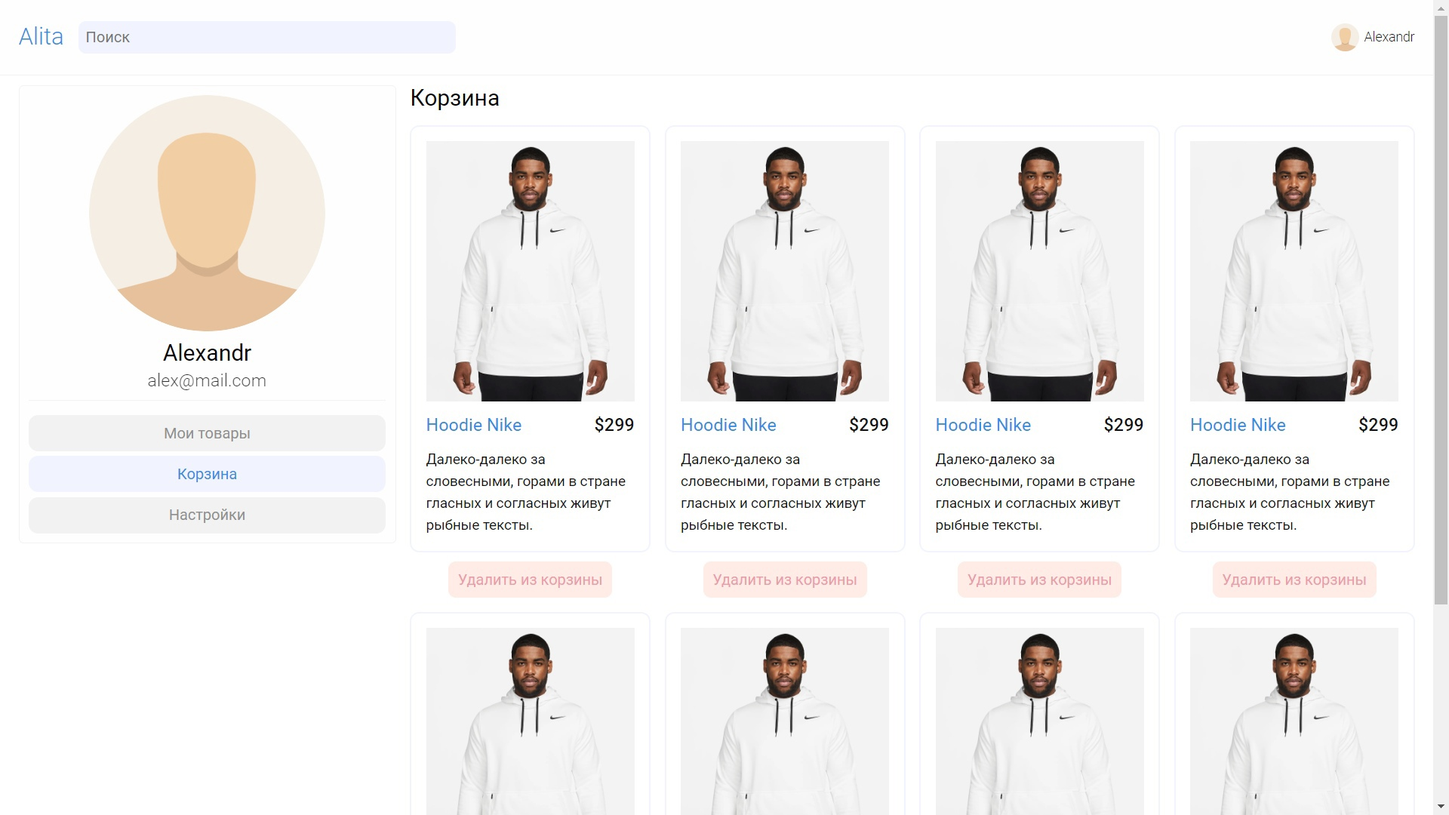
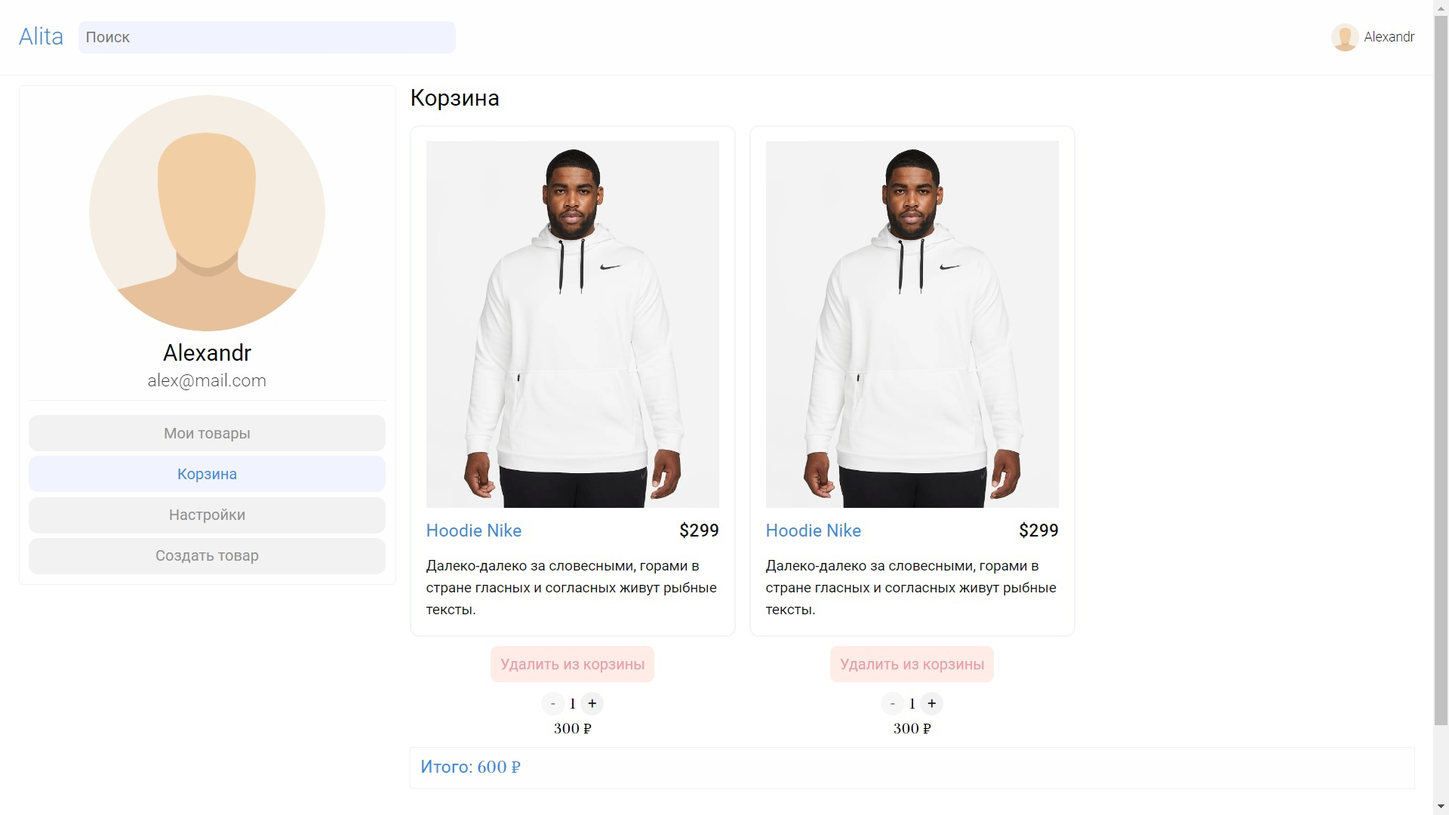
изменил страницу профиля

diff --git a/static/css/main.css b/static/css/main.css
@@ -1,1 +1,1 @@
-@import url(https://fonts.googleapis.com/css2?family=Roboto:wght@300;400;500&display=swap);html{line-height:1.15;-webkit-text-size-adjust:100%}body{margin:0}main{display:block}h1{font-size:2em;margin:.67em 0}hr{box-sizing:content-box;height:0;overflow:visible}pre{font-family:monospace,monospace;font-size:1em}a{background-color:transparent}abbr[title]{border-bottom:none;text-decoration:underline;text-decoration:underline dotted}b,strong{font-weight:bolder}code,kbd,samp{font-family:monospace,monospace;font-size:1em}small{font-size:80%}sub,sup{font-size:75%;line-height:0;position:relative;vertical-align:baseline}sub{bottom:-.25em}sup{top:-.5em}img{border-style:none}button,input,optgroup,select,textarea{font-family:inherit;font-size:100%;line-height:1.15;margin:0}button,input{overflow:visible}button,select{text-transform:none}[type=button],[type=reset],[type=submit],button{-webkit-appearance:button}[type=button]::-moz-focus-inner,[type=reset]::-moz-focus-inner,[type=submit]::-moz-focus-inner,button::-moz-focus-inner{border-style:none;padding:0}[type=button]:-moz-focusring,[type=reset]:-moz-focusring,[type=submit]:-moz-focusring,button:-moz-focusring{outline:1px dotted ButtonText}fieldset{padding:.35em .75em .625em}legend{box-sizing:border-box;color:inherit;display:table;max-width:100%;padding:0;white-space:normal}progress{vertical-align:baseline}textarea{overflow:auto}[type=checkbox],[type=radio]{box-sizing:border-box;padding:0}[type=number]::-webkit-inner-spin-button,[type=number]::-webkit-outer-spin-button{height:auto}[type=search]{-webkit-appearance:textfield;outline-offset:-2px}[type=search]::-webkit-search-decoration{-webkit-appearance:none}::-webkit-file-upload-button{-webkit-appearance:button;font:inherit}details{display:block}summary{display:list-item}template{display:none}[hidden]{display:none}.auth__help-desc,.header__user-name,.logo__link,.profile__sidebar-user-email{font-weight:300;font-family:Roboto,sans-serif}.auth__title,.categories-list__title,.product__title,.profile__sidebar-user-name,.profile__tab-title,.section__title,body{font-weight:400;font-family:Roboto,sans-serif}.product__price{font-weight:500;font-family:Roboto,sans-serif}*,::after,::before{padding:0;margin:0;-webkit-box-sizing:border-box;box-sizing:border-box;list-style-type:none;resize:none;outline:0;text-decoration:none}h1,h2,h3,h4,h5,h6{margin:0}img{max-width:100%;height:auto}button[disabled],input[type=button][disabled],input[type=submit][disabled]{opacity:.8;cursor:not-allowed}#__layout,#__layout>div,#__nuxt{min-height:100vh;height:100%}.container{max-width:1500px;padding:0 10px;height:100%;margin:0 auto;min-height:inherit}.page{min-height:inherit}.page__inner{min-height:inherit}.auth{min-height:inherit;display:-webkit-box;display:-ms-flexbox;display:flex;-webkit-box-orient:vertical;-webkit-box-direction:normal;-ms-flex-direction:column;flex-direction:column;-webkit-box-pack:center;-ms-flex-pack:center;justify-content:center;-webkit-box-align:center;-ms-flex-align:center;align-items:center;padding:15px 0}.auth__form{width:700px}.auth__title{margin-bottom:15px;text-align:center}.auth__help{margin-top:25px;display:-webkit-box;display:-ms-flexbox;display:flex;-webkit-box-pack:center;-ms-flex-pack:center;justify-content:center;-webkit-box-align:center;-ms-flex-align:center;align-items:center}.auth__help-desc{font-size:15px}.auth__help-link{color:#318ce7}.form{display:-webkit-box;display:-ms-flexbox;display:flex;-webkit-box-orient:vertical;-webkit-box-direction:normal;-ms-flex-direction:column;flex-direction:column}.form__field{width:100%}.form__field:not(:last-child){margin-bottom:10px}.form__file{display:none}.form__label{width:100%;display:block}.form__input{width:100%;border:none;background:#f2f2f2;padding:12px;border-radius:5px;border:1px solid transparent;-webkit-transition:color,background,border,.3s;-o-transition:color,background,border,.3s;transition:color,background,border,.3s}.form__input--invalid{background:#ffece7;color:#ec9ba9;border:1px solid #ec9ba9}.form__textarea{resize:vertical;min-height:80px}.form__select{width:100%;height:45px;padding:10px;border:1px solid #f2f2f2;cursor:pointer;border-radius:5px;-webkit-transition:border-color .3s;-o-transition:border-color .3s;transition:border-color .3s}.form__select:focus{border-color:#318ce7}.form__submit-block{display:-webkit-box;display:-ms-flexbox;display:flex;-webkit-box-pack:center;-ms-flex-pack:center;justify-content:center;-webkit-box-align:center;-ms-flex-align:center;align-items:center}.form__submit{cursor:pointer;padding:8px;border-radius:5px;background:#101010;color:#fefefe}.pt-90{padding-top:90px}.header{position:fixed;width:100%;height:80px;z-index:999;padding:10px 0;background:#fefefe;border-bottom:1px solid #f2f2f2}.header__inner{height:100%;display:-webkit-box;display:-ms-flexbox;display:flex;-webkit-box-align:center;-ms-flex-align:center;align-items:center;-webkit-box-pack:justify;-ms-flex-pack:justify;justify-content:space-between}.header__search{width:400px}.header__search-input{border:none;border-radius:8px;background:#f1f4ff;padding:8px;width:100%}.header__block{display:-webkit-box;display:-ms-flexbox;display:flex;-webkit-box-align:center;-ms-flex-align:center;align-items:center}.header__block:not(:last-child){margin-right:10px}.header__logo{margin-right:15px}.header__user-info{color:#101010;display:-webkit-box;display:-ms-flexbox;display:flex;-webkit-box-align:center;-ms-flex-align:center;align-items:center}.header__user-icon{width:30px}.header__user-name{margin-left:5px;text-align:center;font-size:14px}.logo{display:-webkit-box;display:-ms-flexbox;display:flex;-webkit-box-pack:center;-ms-flex-pack:center;justify-content:center;-webkit-box-align:center;-ms-flex-align:center;align-items:center}.logo__link{color:#318ce7;font-size:25px}.section{padding:15px 0;display:-webkit-box;display:-ms-flexbox;display:flex;-webkit-box-orient:vertical;-webkit-box-direction:normal;-ms-flex-direction:column;flex-direction:column}.section__title{font-size:18px;margin-bottom:15px}.categories-list{display:grid;grid-template-columns:repeat(4,1fr);grid-gap:15px}.categories-list__link{padding:15px;background:#f1f4ff;border-radius:15px;display:-webkit-box;display:-ms-flexbox;display:flex;-webkit-box-orient:vertical;-webkit-box-direction:normal;-ms-flex-direction:column;flex-direction:column;-webkit-box-align:center;-ms-flex-align:center;align-items:center;-webkit-transition:-webkit-box-shadow .3s;transition:-webkit-box-shadow .3s;-o-transition:box-shadow .3s;transition:box-shadow .3s;transition:box-shadow .3s,-webkit-box-shadow .3s}.categories-list__link:hover{-webkit-box-shadow:rgba(241,244,255,.6) 0 8px 24px;box-shadow:rgba(241,244,255,.6) 0 8px 24px}.categories-list__icon{width:40px;fill:#101010}.categories-list__title{margin-top:5px;text-align:center;font-size:14px;color:#318ce7}.products{display:grid;grid-template-columns:repeat(5,1fr);grid-gap:15px}.product{display:-webkit-box;display:-ms-flexbox;display:flex;-webkit-box-orient:vertical;-webkit-box-direction:normal;-ms-flex-direction:column;flex-direction:column}.product__link{padding:15px;border-radius:10px;border:2px solid #f1f4ff;display:-webkit-box;display:-ms-flexbox;display:flex;-webkit-box-orient:vertical;-webkit-box-direction:normal;-ms-flex-direction:column;flex-direction:column;color:#101010;margin-bottom:10px}.product__images{margin-bottom:10px}.product__images-item{display:none}.product__images-item--active{display:block}.product__header{display:-webkit-box;display:-ms-flexbox;display:flex;-webkit-box-orient:vertical;-webkit-box-direction:normal;-ms-flex-direction:column;flex-direction:column}.product__title{color:#318ce7;display:-webkit-box;display:-ms-flexbox;display:flex;-webkit-box-align:center;-ms-flex-align:center;align-items:center;-webkit-box-pack:justify;-ms-flex-pack:justify;justify-content:space-between}.product__desc{line-height:23px;font-size:15px}.product__price{color:#101010;padding-left:5px}.product__btn{border:none;cursor:pointer;padding:10px;border-radius:8px;margin:0 auto;display:block}.product__btn-add-to-cart{background:#f1f4ff;color:#318ce7}.product__btn-remove-from-cart{color:#ec9ba9;background:#ffece7}.product__main{padding-top:15px}.profile{min-height:100vh;display:-webkit-box;display:-ms-flexbox;display:flex;-webkit-box-pack:justify;-ms-flex-pack:justify;justify-content:space-between}.profile__sidebar{background:#fefefe;position:sticky;top:90px;min-width:400px;height:-webkit-max-content;height:-moz-max-content;height:max-content;overflow:auto;border:1px solid #f2f2f2;padding:10px;border-radius:5px;display:-webkit-box;display:-ms-flexbox;display:flex;-webkit-box-orient:vertical;-webkit-box-direction:normal;-ms-flex-direction:column;flex-direction:column}.profile__sidebar-block:not(:last-child){margin-bottom:15px;border-bottom:1px solid #f2f2f2;padding-bottom:10px}.profile__sidebar-user-info{display:-webkit-box;display:-ms-flexbox;display:flex;-webkit-box-orient:vertical;-webkit-box-direction:normal;-ms-flex-direction:column;flex-direction:column;text-align:center}.profile__sidebar-user-avatar-block{width:250px;height:250px;margin:0 auto 10px;border-radius:50%;display:-webkit-box;display:-ms-flexbox;display:flex;-webkit-box-pack:center;-ms-flex-pack:center;justify-content:center;-webkit-box-align:center;-ms-flex-align:center;align-items:center;overflow:hidden}.profile__sidebar-user-avatar{width:100%}.profile__sidebar-user-name{margin-bottom:4px}.profile__sidebar-user-email{opacity:.8}.profile__sidebar-list{display:-webkit-box;display:-ms-flexbox;display:flex;-webkit-box-orient:vertical;-webkit-box-direction:normal;-ms-flex-direction:column;flex-direction:column}.profile__sidebar-list-item:not(:last-child){margin-bottom:5px}.profile__sidebar-list-link{display:-webkit-box;display:-ms-flexbox;display:flex;-webkit-box-pack:center;-ms-flex-pack:center;justify-content:center;-webkit-box-align:center;-ms-flex-align:center;align-items:center;padding:10px;border-radius:10px;background:#f2f2f2;color:#8f8f8f;-webkit-transition:color,background,.3s;-o-transition:color,background,.3s;transition:color,background,.3s}.profile__sidebar-list-link:hover{color:#318ce7;background:#f1f4ff}.profile__sidebar-list-link--active{color:#318ce7;background:#f1f4ff}.profile__main{width:100%;margin-left:15px;display:-webkit-box;display:-ms-flexbox;display:flex;-webkit-box-orient:vertical;-webkit-box-direction:normal;-ms-flex-direction:column;flex-direction:column}.profile__tab{display:-webkit-box;display:-ms-flexbox;display:flex;-webkit-box-orient:vertical;-webkit-box-direction:normal;-ms-flex-direction:column;flex-direction:column}.profile__tab-title{margin-bottom:15px}.profile__products-list{display:grid;grid-template-columns:repeat(4,1fr);grid-gap:15px}.create__form{width:600px;margin:0 auto}.block-load-files{cursor:pointer}.block-load-files__area{width:100%;border:1px solid #f2f2f2;padding:15px;border-radius:5px;display:-webkit-box;display:-ms-flexbox;display:flex;-webkit-box-pack:center;-ms-flex-pack:center;justify-content:center;-webkit-box-align:center;-ms-flex-align:center;align-items:center}.block-load-files__area--active{border-style:dashed;border-color:#318ce7;background:#f1f4ff}.block-load-files__list{display:grid;grid-template-columns:repeat(6,1fr);grid-gap:15px;margin-top:5px}.block-load-files__list-item{position:relative}.block-load-files__list-image{-o-object-fit:cover;object-fit:cover;width:100%;height:100%}.block-load-files__list-remove{position:absolute;top:10px;left:10px;width:15px;height:15px;cursor:pointer;border-radius:50%;border:none;background:tgba(143,143,143,.8);display:-webkit-box;display:-ms-flexbox;display:flex;-webkit-box-pack:center;-ms-flex-pack:center;justify-content:center;-webkit-box-align:center;-ms-flex-align:center;align-items:center}.block-load-files__list-remove::after,.block-load-files__list-remove::before{content:"";position:absolute;width:50%;height:1px;background:#101010}.block-load-files__list-remove::after{-webkit-transform:rotateZ(45deg);-ms-transform:rotate(45deg);transform:rotateZ(45deg)}.block-load-files__list-remove::before{-webkit-transform:rotateZ(-45deg);-ms-transform:rotate(-45deg);transform:rotateZ(-45deg)}.block-load-files__icon{width:68px;fill:#318ce7}
+@import url(https://fonts.googleapis.com/css2?family=Ibarra+Real+Nova:wght@500&family=Roboto:wght@300;400;500&display=swap);html{line-height:1.15;-webkit-text-size-adjust:100%}body{margin:0}main{display:block}h1{font-size:2em;margin:.67em 0}hr{box-sizing:content-box;height:0;overflow:visible}pre{font-family:monospace,monospace;font-size:1em}a{background-color:transparent}abbr[title]{border-bottom:none;text-decoration:underline;text-decoration:underline dotted}b,strong{font-weight:bolder}code,kbd,samp{font-family:monospace,monospace;font-size:1em}small{font-size:80%}sub,sup{font-size:75%;line-height:0;position:relative;vertical-align:baseline}sub{bottom:-.25em}sup{top:-.5em}img{border-style:none}button,input,optgroup,select,textarea{font-family:inherit;font-size:100%;line-height:1.15;margin:0}button,input{overflow:visible}button,select{text-transform:none}[type=button],[type=reset],[type=submit],button{-webkit-appearance:button}[type=button]::-moz-focus-inner,[type=reset]::-moz-focus-inner,[type=submit]::-moz-focus-inner,button::-moz-focus-inner{border-style:none;padding:0}[type=button]:-moz-focusring,[type=reset]:-moz-focusring,[type=submit]:-moz-focusring,button:-moz-focusring{outline:1px dotted ButtonText}fieldset{padding:.35em .75em .625em}legend{box-sizing:border-box;color:inherit;display:table;max-width:100%;padding:0;white-space:normal}progress{vertical-align:baseline}textarea{overflow:auto}[type=checkbox],[type=radio]{box-sizing:border-box;padding:0}[type=number]::-webkit-inner-spin-button,[type=number]::-webkit-outer-spin-button{height:auto}[type=search]{-webkit-appearance:textfield;outline-offset:-2px}[type=search]::-webkit-search-decoration{-webkit-appearance:none}::-webkit-file-upload-button{-webkit-appearance:button;font:inherit}details{display:block}summary{display:list-item}template{display:none}[hidden]{display:none}.auth__help-desc,.header__user-name,.logo__link,.profile__sidebar-user-email{font-weight:300;font-family:Roboto,sans-serif}.auth__title,.categories-list__title,.product__title,.profile__cart-total-price-title,.profile__sidebar-user-name,.profile__tab-title,.section__title,body{font-weight:400;font-family:Roboto,sans-serif}.product__price{font-weight:500;font-family:Roboto,sans-serif}.product__quantity-price,.product__quantity-value,.profile__cart-total-price-val{font-weight:400;font-family:"Ibarra Real Nova",serif}*,::after,::before{padding:0;margin:0;-webkit-box-sizing:border-box;box-sizing:border-box;list-style-type:none;resize:none;outline:0;text-decoration:none}h1,h2,h3,h4,h5,h6{margin:0}img{max-width:100%;height:auto}button[disabled],input[type=button][disabled],input[type=submit][disabled]{opacity:.6;cursor:not-allowed}#__layout,#__layout>div,#__nuxt{min-height:100vh;height:100%}.container{max-width:1500px;padding:0 10px;height:100%;margin:0 auto;min-height:inherit}.page{min-height:inherit}.page__inner{min-height:inherit}.auth{min-height:inherit;display:-webkit-box;display:-ms-flexbox;display:flex;-webkit-box-orient:vertical;-webkit-box-direction:normal;-ms-flex-direction:column;flex-direction:column;-webkit-box-pack:center;-ms-flex-pack:center;justify-content:center;-webkit-box-align:center;-ms-flex-align:center;align-items:center;padding:15px 0}.auth__form{width:700px}.auth__title{margin-bottom:15px;text-align:center}.auth__help{margin-top:25px;display:-webkit-box;display:-ms-flexbox;display:flex;-webkit-box-pack:center;-ms-flex-pack:center;justify-content:center;-webkit-box-align:center;-ms-flex-align:center;align-items:center}.auth__help-desc{font-size:15px}.auth__help-link{color:#318ce7}.form{display:-webkit-box;display:-ms-flexbox;display:flex;-webkit-box-orient:vertical;-webkit-box-direction:normal;-ms-flex-direction:column;flex-direction:column}.form__field{width:100%}.form__field:not(:last-child){margin-bottom:10px}.form__file{display:none}.form__label{width:100%;display:block}.form__input{width:100%;border:none;background:#f2f2f2;padding:12px;border-radius:5px;border:1px solid transparent;-webkit-transition:color,background,border,.3s;-o-transition:color,background,border,.3s;transition:color,background,border,.3s}.form__input--invalid{background:#ffece7;color:#ec9ba9;border:1px solid #ec9ba9}.form__textarea{resize:vertical;min-height:80px}.form__select{width:100%;height:45px;padding:10px;border:1px solid #f2f2f2;cursor:pointer;border-radius:5px;-webkit-transition:border-color .3s;-o-transition:border-color .3s;transition:border-color .3s}.form__select:focus{border-color:#318ce7}.form__submit-block{display:-webkit-box;display:-ms-flexbox;display:flex;-webkit-box-pack:center;-ms-flex-pack:center;justify-content:center;-webkit-box-align:center;-ms-flex-align:center;align-items:center}.form__submit{cursor:pointer;padding:8px;border-radius:5px;background:#101010;color:#fefefe}.pt-90{padding-top:90px}.header{position:fixed;width:100%;height:80px;z-index:999;padding:10px 0;background:#fefefe;border-bottom:1px solid #f2f2f2}.header__inner{height:100%;display:-webkit-box;display:-ms-flexbox;display:flex;-webkit-box-align:center;-ms-flex-align:center;align-items:center;-webkit-box-pack:justify;-ms-flex-pack:justify;justify-content:space-between}.header__search{width:400px}.header__search-input{border:none;border-radius:8px;background:#f1f4ff;padding:8px;width:100%}.header__block{display:-webkit-box;display:-ms-flexbox;display:flex;-webkit-box-align:center;-ms-flex-align:center;align-items:center}.header__block:not(:last-child){margin-right:10px}.header__logo{margin-right:15px}.header__user-info{color:#101010;display:-webkit-box;display:-ms-flexbox;display:flex;-webkit-box-align:center;-ms-flex-align:center;align-items:center}.header__user-icon{width:30px}.header__user-name{margin-left:5px;text-align:center;font-size:14px}.logo{display:-webkit-box;display:-ms-flexbox;display:flex;-webkit-box-pack:center;-ms-flex-pack:center;justify-content:center;-webkit-box-align:center;-ms-flex-align:center;align-items:center}.logo__link{color:#318ce7;font-size:25px}.section{padding:15px 0;display:-webkit-box;display:-ms-flexbox;display:flex;-webkit-box-orient:vertical;-webkit-box-direction:normal;-ms-flex-direction:column;flex-direction:column}.section__title{font-size:18px;margin-bottom:15px}.categories-list{display:grid;grid-template-columns:repeat(4,1fr);grid-gap:15px}.categories-list__link{padding:15px;background:#f1f4ff;border-radius:15px;display:-webkit-box;display:-ms-flexbox;display:flex;-webkit-box-orient:vertical;-webkit-box-direction:normal;-ms-flex-direction:column;flex-direction:column;-webkit-box-align:center;-ms-flex-align:center;align-items:center;-webkit-transition:-webkit-box-shadow .3s;transition:-webkit-box-shadow .3s;-o-transition:box-shadow .3s;transition:box-shadow .3s;transition:box-shadow .3s,-webkit-box-shadow .3s}.categories-list__link:hover{-webkit-box-shadow:rgba(241,244,255,.6) 0 8px 24px;box-shadow:rgba(241,244,255,.6) 0 8px 24px}.categories-list__icon{width:40px;fill:#101010}.categories-list__title{margin-top:5px;text-align:center;font-size:14px;color:#318ce7}.products{display:grid;grid-template-columns:repeat(5,1fr);grid-gap:15px}.product{display:-webkit-box;display:-ms-flexbox;display:flex;-webkit-box-orient:vertical;-webkit-box-direction:normal;-ms-flex-direction:column;flex-direction:column}.product__link{padding:15px;border-radius:10px;border:2px solid #f1f4ff;display:-webkit-box;display:-ms-flexbox;display:flex;-webkit-box-orient:vertical;-webkit-box-direction:normal;-ms-flex-direction:column;flex-direction:column;color:#101010;margin-bottom:10px}.product__images{margin-bottom:10px}.product__images-item{display:none}.product__images-item--active{display:block}.product__header{display:-webkit-box;display:-ms-flexbox;display:flex;-webkit-box-orient:vertical;-webkit-box-direction:normal;-ms-flex-direction:column;flex-direction:column}.product__title{color:#318ce7;display:-webkit-box;display:-ms-flexbox;display:flex;-webkit-box-align:center;-ms-flex-align:center;align-items:center;-webkit-box-pack:justify;-ms-flex-pack:justify;justify-content:space-between}.product__desc{line-height:23px;font-size:15px}.product__price{color:#101010;padding-left:5px}.product__btn{border:none;cursor:pointer;padding:10px;border-radius:8px;margin:0 auto;display:block}.product__btn-add-to-cart{background:#f1f4ff;color:#318ce7}.product__btn-remove-from-cart{color:#ec9ba9;background:#ffece7}.product__main{padding-top:15px}.product__footer{display:-webkit-box;display:-ms-flexbox;display:flex;-webkit-box-orient:vertical;-webkit-box-direction:normal;-ms-flex-direction:column;flex-direction:column}.product__footer-block:not(:last-child){margin-bottom:10px}.product__quantity{display:-webkit-box;display:-ms-flexbox;display:flex;-webkit-box-orient:vertical;-webkit-box-direction:normal;-ms-flex-direction:column;flex-direction:column;-webkit-box-align:center;-ms-flex-align:center;align-items:center;-webkit-box-pack:center;-ms-flex-pack:center;justify-content:center}.product__quantity-controls{display:-webkit-box;display:-ms-flexbox;display:flex;-webkit-box-align:center;-ms-flex-align:center;align-items:center;-webkit-box-pack:center;-ms-flex-pack:center;justify-content:center}.product__quantity-controls-btn{cursor:pointer;border:none;background-color:#f2f2f2;color:#101010;padding:5px;border-radius:50%;width:25px;height:25px;display:-webkit-box;display:-ms-flexbox;display:flex;font-size:17px;-webkit-box-pack:center;-ms-flex-pack:center;justify-content:center;-webkit-box-align:center;-ms-flex-align:center;align-items:center}.product__quantity-value{display:inline-block;margin:0 5px}.product__quantity-price{margin-top:5px}.profile{min-height:100vh;display:-webkit-box;display:-ms-flexbox;display:flex;-webkit-box-pack:justify;-ms-flex-pack:justify;justify-content:space-between}.profile__sidebar{background:#fefefe;position:sticky;top:90px;min-width:400px;height:-webkit-max-content;height:-moz-max-content;height:max-content;overflow:auto;border:1px solid #f2f2f2;padding:10px;border-radius:5px;display:-webkit-box;display:-ms-flexbox;display:flex;-webkit-box-orient:vertical;-webkit-box-direction:normal;-ms-flex-direction:column;flex-direction:column}.profile__sidebar-block:not(:last-child){margin-bottom:15px;border-bottom:1px solid #f2f2f2;padding-bottom:10px}.profile__sidebar-user-info{display:-webkit-box;display:-ms-flexbox;display:flex;-webkit-box-orient:vertical;-webkit-box-direction:normal;-ms-flex-direction:column;flex-direction:column;text-align:center}.profile__sidebar-user-avatar-block{width:250px;height:250px;margin:0 auto 10px;border-radius:50%;display:-webkit-box;display:-ms-flexbox;display:flex;-webkit-box-pack:center;-ms-flex-pack:center;justify-content:center;-webkit-box-align:center;-ms-flex-align:center;align-items:center;overflow:hidden}.profile__sidebar-user-avatar{width:100%}.profile__sidebar-user-name{margin-bottom:4px}.profile__sidebar-user-email{opacity:.8}.profile__sidebar-list{display:-webkit-box;display:-ms-flexbox;display:flex;-webkit-box-orient:vertical;-webkit-box-direction:normal;-ms-flex-direction:column;flex-direction:column}.profile__sidebar-list-item:not(:last-child){margin-bottom:5px}.profile__sidebar-list-link{display:-webkit-box;display:-ms-flexbox;display:flex;-webkit-box-pack:center;-ms-flex-pack:center;justify-content:center;-webkit-box-align:center;-ms-flex-align:center;align-items:center;padding:10px;border-radius:10px;background:#f2f2f2;color:#8f8f8f;-webkit-transition:color,background,.3s;-o-transition:color,background,.3s;transition:color,background,.3s}.profile__sidebar-list-link:hover{color:#318ce7;background:#f1f4ff}.profile__sidebar-list-link--active{color:#318ce7;background:#f1f4ff}.profile__main{width:100%;margin-left:15px;display:-webkit-box;display:-ms-flexbox;display:flex;-webkit-box-orient:vertical;-webkit-box-direction:normal;-ms-flex-direction:column;flex-direction:column}.profile__tab{display:-webkit-box;display:-ms-flexbox;display:flex;-webkit-box-orient:vertical;-webkit-box-direction:normal;-ms-flex-direction:column;flex-direction:column}.profile__tab-title{margin-bottom:15px}.profile__products-list{display:grid;grid-template-columns:repeat(3,1fr);grid-gap:15px}.profile__cart-total-price{position:sticky;bottom:0;width:100%;display:-webkit-box;display:-ms-flexbox;display:flex;-webkit-box-align:center;-ms-flex-align:center;align-items:center;padding:10px;background:#fefefe;color:#318ce7;border:1px solid #f2f2f2;margin-top:10px}.create__form{width:600px;margin:0 auto}.block-load-files{cursor:pointer}.block-load-files__area{width:100%;border:1px solid #f2f2f2;padding:15px;border-radius:5px;display:-webkit-box;display:-ms-flexbox;display:flex;-webkit-box-pack:center;-ms-flex-pack:center;justify-content:center;-webkit-box-align:center;-ms-flex-align:center;align-items:center}.block-load-files__area--active{border-style:dashed;border-color:#318ce7;background:#f1f4ff}.block-load-files__list{display:grid;grid-template-columns:repeat(6,1fr);grid-gap:15px;margin-top:5px}.block-load-files__list-item{position:relative}.block-load-files__list-image{-o-object-fit:cover;object-fit:cover;width:100%;height:100%}.block-load-files__list-remove{position:absolute;top:10px;left:10px;width:15px;height:15px;cursor:pointer;border-radius:50%;border:none;background:rgba(143,143,143,.8);display:-webkit-box;display:-ms-flexbox;display:flex;-webkit-box-pack:center;-ms-flex-pack:center;justify-content:center;-webkit-box-align:center;-ms-flex-align:center;align-items:center}.block-load-files__list-remove::after,.block-load-files__list-remove::before{content:"";position:absolute;width:50%;height:1px;background:#101010}.block-load-files__list-remove::after{-webkit-transform:rotateZ(45deg);-ms-transform:rotate(45deg);transform:rotateZ(45deg)}.block-load-files__list-remove::before{-webkit-transform:rotateZ(-45deg);-ms-transform:rotate(-45deg);transform:rotateZ(-45deg)}.block-load-files__icon{width:68px;fill:#318ce7}

diff --git a/components/vProductCard.vue b/components/vProductCard.vue
@@ -38,27 +38,63 @@
       </main>
     </nuxt-link>
     <footer class="product__footer">
-      <button
-        v-if="!noAddToCart"
-        class="product__btn product__btn-add-to-cart"
-        @click="$emit('addToCart', product)"
+      <div class="product__footer-block">
+        <button
+          v-if="!noAddToCart"
+          class="product__btn product__btn-add-to-cart"
+          @click="$emit('addToCart', product)"
+        >
+          Добавить в корзину
+        </button>
+        <button
+          v-if="!noEdit"
+          class="product__btn product__btn-edit"
+          @click="$emit('edit', product)"
+        >
+          Редактировать
+        </button>
+        <button
+          v-if="!noRemoveFromCart"
+          class="product__btn product__btn-remove-from-cart"
+          @click="$emit('removeFromCart', product)"
+        >
+          Удалить из корзины
+        </button>
+      </div>
+      <div
+        v-if="!noQuantityControls"
+        class="product__footer-block product__quantity"
       >
-        Добавить в корзину
-      </button>
-      <button
-        v-if="!noRemoveFromCart"
-        class="product__btn product__btn-remove-from-cart"
-        @click="$emit('removeFromCart', product)"
-      >
-        Удалить из корзины
-      </button>
+        <div class="product__quantity-controls">
+          <button
+            class="product__quantity-controls-btn"
+            :disabled="quantity === 1"
+            @click="quantity -= quantity > 1 ? 1 : 0"
+          >
+            -
+          </button>
+          <span class="product__quantity-value">{{ quantity }}</span>
+          <button
+            class="product__quantity-controls-btn"
+            @click="quantity++"
+          >
+            +
+          </button>
+        </div>
+        <div class="product__quantity-price">
+          {{ getValidNum(300 * quantity, true) }}
+        </div>
+      </div>
     </footer>
   </div>
 </template>
 
 <script>
+  import getValidNumMixin from "@/mixins/getValidNumMixin";
+
   export default {
     name: "ProductCardComponent",
+    mixins: [getValidNumMixin],
     props: {
       product: {
         type: Object,
@@ -66,6 +102,8 @@
       },
       noAddToCart: { type: Boolean, },
       noRemoveFromCart: { type: Boolean, },
+      noEdit: { type: Boolean, },
+      noQuantityControls: { type: Boolean, },
     },
     data: () => ({
       images: [
@@ -84,6 +122,7 @@
       ],
       listImagesParts: [],
       activePart: 0,
+      quantity: 1,
     }),
     methods: {
       setListImagesParts() {

diff --git a/static/scss/index.scss b/static/scss/index.scss
@@ -314,6 +314,56 @@
   &__main {
     padding-top: 15px;
   }
+
+  &__footer {
+    display: flex;
+    flex-direction: column;
+
+    &-block {
+      &:not(:last-child) {
+        margin-bottom: 10px;
+      }
+    }
+  }
+
+  &__quantity {
+    display: flex;
+    flex-direction: column;
+    align-items: center;
+    justify-content: center;
+
+    &-controls {
+      display: flex;
+      align-items: center;
+      justify-content: center;
+
+      &-btn {
+        cursor: pointer;
+        border: none;
+        background-color: $lightGrey;
+        color: $black;
+        padding: 5px;
+        border-radius: 50%;
+        width: 25px;
+        height: 25px;
+        display: flex;
+        font-size: 17px;
+        justify-content: center;
+        align-items: center;
+      }
+    }
+
+    &-value {
+      display: inline-block;
+      margin: 0 5px;
+      @extend %ibarra-real-nova-400;
+    }
+
+    &-price {
+      @extend %ibarra-real-nova-400;
+      margin-top: 5px;
+    }
+  }
 }
 
 .profile {
@@ -427,8 +477,31 @@
 
   &__products-list {
     display: grid;
-    grid-template-columns: repeat(4, 1fr);
+    grid-template-columns: repeat(3, 1fr);
     grid-gap: 15px;
+  }
+
+  &__cart {
+    &-total-price {
+      position: sticky;
+      bottom: 0;
+      width: 100%;
+      display: flex;
+      align-items: center;
+      padding: 10px;
+      background: $white;
+      color: $blue;
+      border: 1px solid $lightGrey;
+      margin-top: 10px;
+
+      &-title {
+        @extend %roboto-400;
+      }
+
+      &-val {
+        @extend %ibarra-real-nova-400;
+      }
+    }
   }
 }
 

diff --git a/components/vProfileSettings.vue b/components/vProfileSettings.vue
@@ -16,6 +16,9 @@
             id="name"
             v-model.trim="validations.name.model"
             class="form__input"
+            :class="{
+              'form__input--invalid': validations.name.$invalid
+            }"
             type="text"
             placeholder="Имя"
           >
@@ -30,6 +33,9 @@
             id="email"
             v-model.trim="validations.email.model"
             class="form__input"
+            :class="{
+              'form__input--invalid': validations.email.$invalid
+            }"
             type="text"
             placeholder="Email"
           >
@@ -44,6 +50,9 @@
             id="password"
             v-model.trim="validations.password.model"
             class="form__input"
+            :class="{
+              'form__input--invalid': validations.password.$invalid
+            }"
             type="password"
             placeholder="Пароль"
           >

diff --git a/pages/create.vue b/pages/create.vue
@@ -163,10 +163,12 @@
 
 <script>
   import vCameraIcon from "@/components/icons/vCameraIcon";
+  import getValidNumMixin from "@/mixins/getValidNumMixin";
 
   export default {
     name: "CreateProductPage",
     components: { vCameraIcon, },
+    mixins: [getValidNumMixin],
     layout: "default",
     data: () => ({
       pending: false,
@@ -196,15 +198,10 @@
     }),
     watch: {
       "validations.price.model": function (val) {
-        const numberFormat = Intl.NumberFormat("ru-RU", {
-          minimumFractionDigits: 0,
-          currencyDisplay: "narrowSymbol",
-        });
-
         const numStr = val.replace(/\s/g, "");
 
         if (!isNaN(parseInt(numStr))) {
-          this.validations.price.model = numberFormat.format(numStr);
+          this.validations.price.model = this.getValidNum(numStr);
         } else {
           this.validations.price.model = "";
         }

diff --git a/components/vProfileCart.vue b/components/vProfileCart.vue
@@ -5,21 +5,29 @@
     </h2>
     <ul class="profile__products-list">
       <vProductCard
-        v-for="i in 8"
+        v-for="i in 2"
         :key="i"
         :product="{}"
         :no-add-to-cart="true"
+        :no-edit="true"
       />
     </ul>
+    <div class="profile__cart-total-price">
+      <h3 class="profile__cart-total-price-title">
+        Итого: <span class="profile__cart-total-price-val">{{ getValidNum(600, true) }}</span>
+      </h3>
+    </div>
   </div>
 </template>
 
 <script>
   import vProductCard from "@/components/vProductCard";
+  import getValidNumMixin from "@/mixins/getValidNumMixin";
 
   export default {
     name: "ProfileCartComponent",
     components: { vProductCard, },
+    mixins: [getValidNumMixin],
     data: () => ({ user: {}, }),
     async fetch() {
       try {

diff --git a/static/scss/_global.scss b/static/scss/_global.scss
@@ -1,4 +1,4 @@
-@import url('https://fonts.googleapis.com/css2?family=Roboto:wght@300;400;500&display=swap');
+@import url('https://fonts.googleapis.com/css2?family=Ibarra+Real+Nova:wght@500&family=Roboto:wght@300;400;500&display=swap');
 @import "../../node_modules/normalize.css/normalize.css";
 @import "./_vars";
 
@@ -36,7 +36,7 @@ input[type=button],
 input[type=submit],
 button {
   &[disabled] {
-    opacity: .8;
+    opacity: .6;
     cursor: not-allowed;
   }
 }

diff --git a/static/scss/_vars.scss b/static/scss/_vars.scss
@@ -13,6 +13,11 @@
   font-family: "Roboto", sans-serif;
 }
 
+%ibarra-real-nova-400 {
+  font-weight: 400;
+  font-family: 'Ibarra Real Nova', serif;
+}
+
 $lightGrey: #F2F2F2;
 $grey: #8F8F8F;
 $black: #101010;
@@ -23,4 +28,4 @@ $middleRed: #EC9BA9;
 $lightBlue: #F1F4FF;
 $opacityLightBlue: rgba(241, 244, 255, .6);
 $opacityLightGrey: rgba(242, 242, 242, .8);
-$opacityGrey: tgba(143, 143, 143, .8);
+$opacityGrey: rgba(143, 143, 143, .8);

diff --git a/mixins/getValidNumMixin.js b/mixins/getValidNumMixin.js
@@ -1,0 +1,20 @@
+export default {
+  methods: {
+    getValidNum(price, isCurrency) {
+      let options = {
+        minimumFractionDigits: 0,
+        currencyDisplay: "narrowSymbol",
+      };
+
+      if (isCurrency) {
+        options = {
+          ...options,
+          currency: "RUB",
+          style: "currency",
+        };
+      }
+
+      return Intl.NumberFormat("ru-RU", options).format(price);
+    },
+  },
+};

diff --git a/components/vProfileSidebar.vue b/components/vProfileSidebar.vue
@@ -26,6 +26,14 @@
             {{ item.title }}
           </nuxt-link>
         </li>
+        <li class="profile__sidebar-list-item">
+          <nuxt-link
+            class="profile__sidebar-list-link"
+            to="/create"
+          >
+            Создать товар
+          </nuxt-link>
+        </li>
       </ul>
     </div>
   </aside>

diff --git a/server/models/Product.js b/server/models/Product.js
@@ -8,10 +8,6 @@ const Product = sequelize.define("product", {
     defaultValue: [],
   },
   price: { type: DataTypes.INTEGER, },
-  amount: {
-    type: DataTypes.INTEGER,
-    defaultValue: 0,
-  },
   rating: { type: DataTypes.INTEGER, },
   raters: {
     type: DataTypes.ARRAY(DataTypes.INTEGER),

diff --git a/pages/index.vue b/pages/index.vue
@@ -18,6 +18,8 @@
               :key="i"
               :product="{}"
               :no-remove-from-cart="true"
+              :no-edit="true"
+              :no-quantity-controls="true"
               @addToCart="addToCart"
             />
           </ul>
